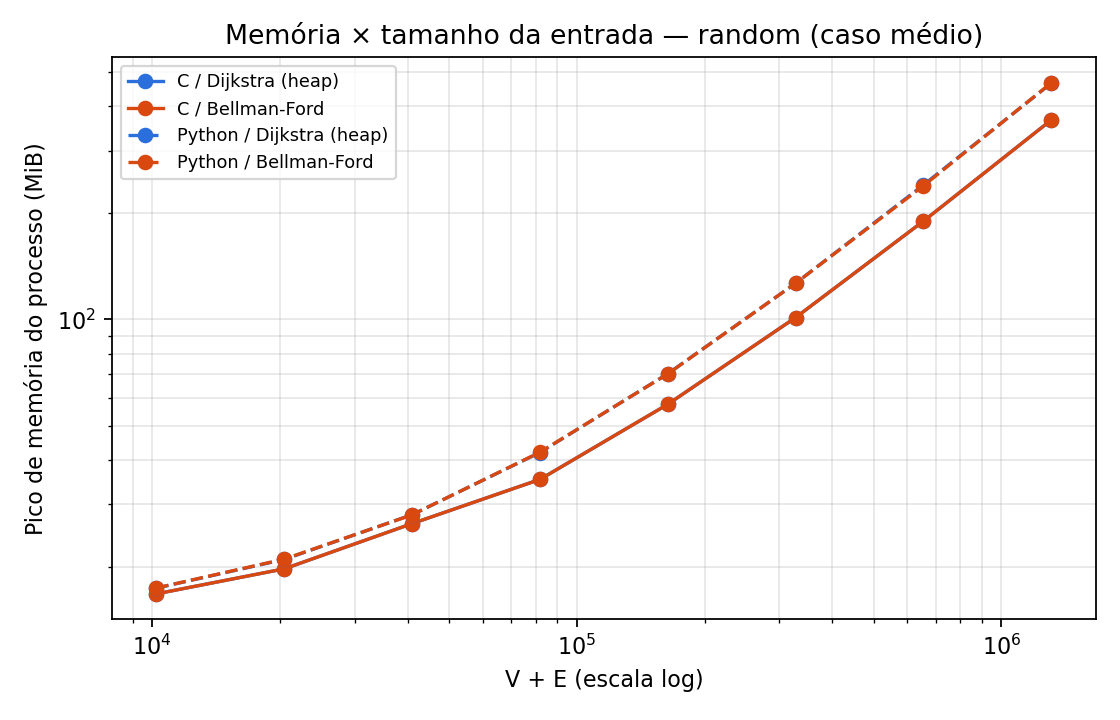
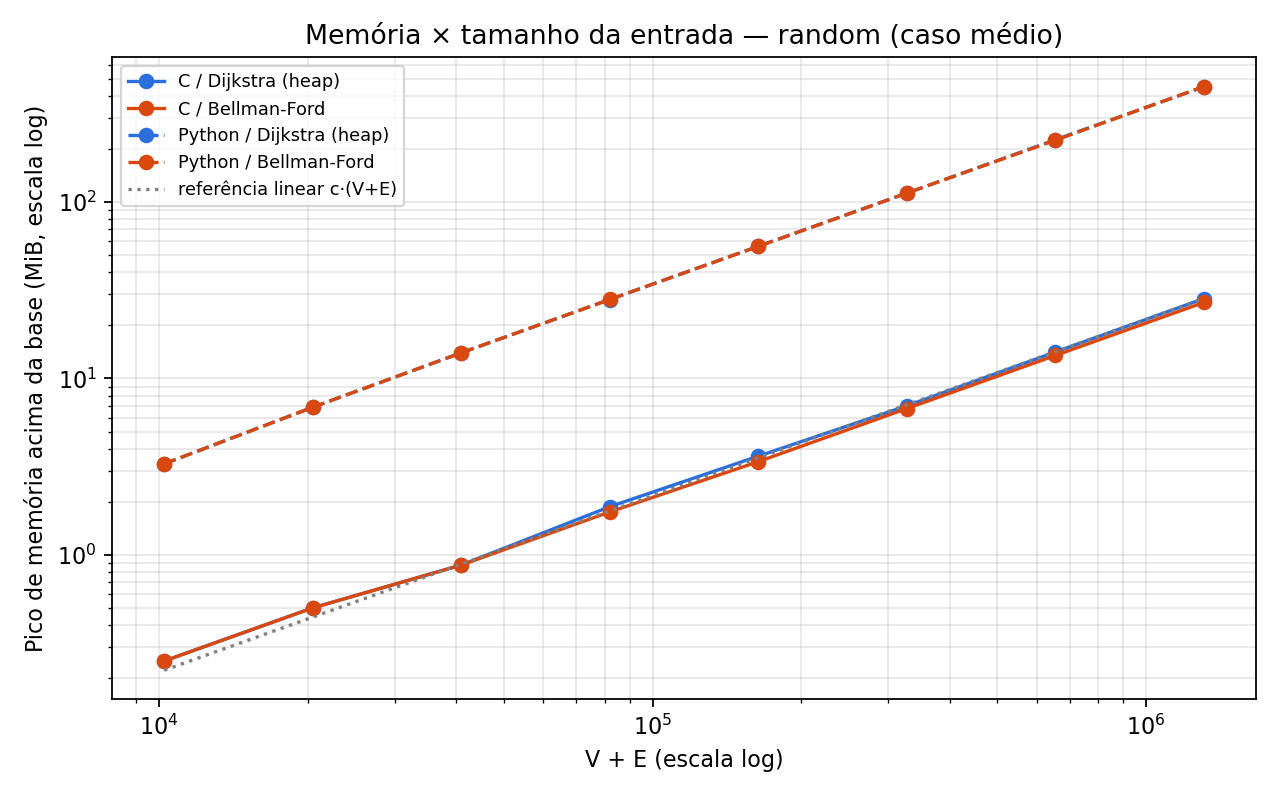
Memória medida com processos limpos (peakrss), resultados e README atualizado

diff --git a/scripts/benchmark.py b/scripts/benchmark.py
@@ -1,15 +1,13 @@
 """Run the four programs on identical inputs; store raw and summary CSV files.
 
-Mede, para cada execução:
-  * elapsed_ns  -- tempo só da função do algoritmo (medido dentro do programa);
-  * maxrss_kib  -- pico de memória residente do processo inteiro (bônus de memória).
+Mede, para cada execução, elapsed_ns: o tempo só da função do algoritmo (medido dentro do programa).
+A memória é medida à parte, por scripts/memory.py.
 """
 
 import argparse
 import csv
 import json
 import math
-import os
 import statistics
 import subprocess
 import sys
@@ -50,23 +48,15 @@ def case_factor(algorithm: str, case: str, vertices: int, edges: int) -> float:
     return edges
 
 
-def run_with_memory(language: str, algorithm: str, graph: Path) -> tuple[dict, int]:
-    """Executa o programa e devolve (saída JSON, pico de memória em KiB)."""
+def run(language: str, algorithm: str, graph: Path) -> dict:
     command = ([sys.executable, "-m", "python.sp"] if language == "python" else [str(ROOT / "build/shortest_path")])
-    with tempfile.TemporaryFile(mode="w+") as out, tempfile.TemporaryFile(mode="w+") as err:
-        process = subprocess.Popen(command + [algorithm, str(graph)], cwd=ROOT, text=True, stdout=out, stderr=err)
-        _, status, usage = os.wait4(process.pid, 0)
-        process.returncode = os.waitstatus_to_exitcode(status)
-        out.seek(0)
-        err.seek(0)
-        if process.returncode != 0:
-            raise RuntimeError(f"{language}/{algorithm} falhou: {err.read().strip()}")
-        data = json.loads(out.read())
+    result = subprocess.run(command + [algorithm, str(graph)], cwd=ROOT, text=True, capture_output=True)
+    if result.returncode != 0:
+        raise RuntimeError(f"{language}/{algorithm} falhou: {result.stderr.strip()}")
+    data = json.loads(result.stdout)
     if data["algorithm"] != algorithm or not isinstance(data["elapsed_ns"], int):
         raise ValueError("saída inválida")
-    # ru_maxrss: KiB no Linux, bytes no macOS.
-    maxrss_kib = usage.ru_maxrss // 1024 if sys.platform == "darwin" else usage.ru_maxrss
-    return data, maxrss_kib
+    return data
 
 
 def main() -> None:
@@ -95,7 +85,7 @@ def main() -> None:
                 # Rotaciona a ordem dos programas para reduzir efeitos sistemáticos de carga de fundo.
                 programs = PROGRAMS[(repetition - 1) % 4:] + PROGRAMS[:(repetition - 1) % 4]
                 for language, algorithm in programs:
-                    data, maxrss_kib = run_with_memory(language, algorithm, graph_path)
+                    data = run(language, algorithm, graph_path)
                     if len(data["distances"]) != vertices:
                         raise ValueError("comprimento de resposta inválido")
                     if expected is None:
@@ -104,8 +94,7 @@ def main() -> None:
                         raise ValueError(f"divergência em V={vertices}, repetição={repetition}, {language}/{algorithm}")
                     rows.append({"seed": args.seed, "case": args.case, "vertices": vertices,
                                  "edges": len(edges), "language": language, "algorithm": algorithm,
-                                 "repetition": repetition, "elapsed_ns": data["elapsed_ns"],
-                                 "maxrss_kib": maxrss_kib})
+                                 "repetition": repetition, "elapsed_ns": data["elapsed_ns"]})
             print(f"[{args.case}] V={vertices}, E={len(edges)}: {args.repeats} repetições verificadas", file=sys.stderr)
     args.output.parent.mkdir(parents=True, exist_ok=True)
     with args.output.open("w", newline="", encoding="utf-8") as output:
@@ -114,8 +103,7 @@ def main() -> None:
         writer.writerows(rows)
     summary_path = args.output.with_name(args.output.stem + "_summary.csv")
     fields = ["seed", "case", "vertices", "edges", "language", "algorithm", "repeats",
-              "mean_ns", "stdev_ns", "bound_factor", "mean_over_bound", "case_factor", "mean_over_case",
-              "mean_maxrss_kib"]
+              "mean_ns", "stdev_ns", "bound_factor", "mean_over_bound", "case_factor", "mean_over_case"]
     with summary_path.open("w", newline="", encoding="utf-8") as output:
         writer = csv.DictWriter(output, fields)
         writer.writeheader()
@@ -132,8 +120,7 @@ def main() -> None:
                                  "repeats": len(samples), "mean_ns": mean,
                                  "stdev_ns": statistics.stdev(samples),
                                  "bound_factor": bound, "mean_over_bound": mean / bound,
-                                 "case_factor": expected, "mean_over_case": mean / expected,
-                                 "mean_maxrss_kib": statistics.mean(r["maxrss_kib"] for r in group)})
+                                 "case_factor": expected, "mean_over_case": mean / expected})
     print(args.output)
     print(summary_path)
 

diff --git a/scripts/plot.py b/scripts/plot.py
@@ -6,7 +6,7 @@ Para cada caso (random, chain, chain-forward, dense):
   <caso>_python_vs_c.png  quantas vezes o Python é mais lento que o C, por algoritmo
 Além disso:
   casos_<algoritmo>.png   o mesmo algoritmo nos vários casos (melhor, médio, pior)
-  memoria.png             pico de memória x V+E (bônus)
+  memoria.png             pico de memória x V+E (bônus), a partir de results/memory.csv
   tabelas.md              tabelas em Markdown para colar no relatório
 """
 
@@ -40,7 +40,7 @@ def load(directory: Path) -> dict[str, list[dict]]:
                 for key in ("vertices", "edges", "repeats"):
                     row[key] = int(row[key])
                 for key in ("mean_ns", "stdev_ns", "bound_factor", "mean_over_bound", "case_factor",
-                            "mean_over_case", "mean_maxrss_kib"):
+                            "mean_over_case"):
                     if key in row and row[key] != "":
                         row[key] = float(row[key])
                 by_case[row["case"]].append(row)
@@ -152,29 +152,41 @@ def plot_cases(plt, by_case: dict[str, list[dict]], output: Path) -> list[Path]:
     return files
 
 
-def plot_memory(plt, by_case: dict[str, list[dict]], output: Path) -> list[Path]:
-    rows = by_case.get("random") or next(iter(by_case.values()))
-    if "mean_maxrss_kib" not in rows[0]:
+def plot_memory(plt, directory: Path, output: Path) -> list[Path]:
+    """Pico de memória (menos a base do interpretador/programa vazio) x V+E, de results/memory.csv."""
+    path = directory / "memory.csv"
+    if not path.is_file():
         return []
-    fig, ax = plt.subplots(figsize=(7, 4.5))
+    with path.open(newline="", encoding="utf-8") as source:
+        rows = list(csv.DictReader(source))
+    for r in rows:
+        for key in ("vertices", "edges", "net_kib"):
+            r[key] = int(float(r[key]))
+    fig, ax = plt.subplots(figsize=(8, 5))
     for language, style in zip(LANGUAGES, ("-", "--")):
         for algorithm in ALGORITHMS:
-            data = series(rows, language, algorithm)
-            ax.plot([r["vertices"] + r["edges"] for r in data], [r["mean_maxrss_kib"] / 1024 for r in data],
+            data = sorted((r for r in rows if r["language"] == language and r["algorithm"] == algorithm),
+                          key=lambda r: r["vertices"])
+            ax.plot([r["vertices"] + r["edges"] for r in data], [max(r["net_kib"], 1) / 1024 for r in data],
                     marker="o", linestyle=style, color=COLORS[algorithm],
                     label=f"{NAMES[language]} / {NAMES[algorithm]}")
+    ref = sorted({r["vertices"] + r["edges"] for r in rows})
+    c_rows = [r for r in rows if r["language"] == "c" and r["algorithm"] == "dijkstra"]
+    anchor = max(c_rows, key=lambda r: r["vertices"])
+    scale = anchor["net_kib"] / 1024 / (anchor["vertices"] + anchor["edges"])
+    ax.plot(ref, [scale * x for x in ref], color="grey", linestyle=":", label="referência linear c·(V+E)")
     ax.set_xscale("log")
     ax.set_yscale("log")
     ax.set_xlabel("V + E (escala log)")
-    ax.set_ylabel("Pico de memória do processo (MiB)")
+    ax.set_ylabel("Pico de memória acima da base (MiB, escala log)")
     ax.set_title(f"Memória × tamanho da entrada — {CASE_LABELS.get(rows[0]['case'], rows[0]['case'])}")
     ax.grid(True, which="both", alpha=0.3)
     ax.legend(fontsize=8)
     fig.tight_layout()
-    path = output / "memoria.png"
-    fig.savefig(path, dpi=160)
+    out = output / "memoria.png"
+    fig.savefig(out, dpi=160)
     plt.close(fig)
-    return [path]
+    return [out]
 
 
 def ms(value: float) -> str:
@@ -235,7 +247,7 @@ def main() -> None:
     for case in [c for c in CASE_ORDER if c in by_case]:
         files += plot_case(plt, case, by_case[case], output)
     files += plot_cases(plt, by_case, output)
-    files += plot_memory(plt, by_case, output)
+    files += plot_memory(plt, args.results, output)
     table_path = args.results / "tabelas.md"
     table_path.write_text(tables(by_case), encoding="utf-8")
     files.append(table_path)

diff --git a/scripts/memory.py b/scripts/memory.py
@@ -1,0 +1,76 @@
+"""Mede o pico de memória residente (bônus) das quatro implementações, com processos limpos.
+
+Cada programa é iniciado por build/peakrss, um lançador mínimo em C; assim o pico medido não
+herda a memória deste script. Para cada tamanho mede-se o programa com o grafo e, como base,
+com um grafo vazio (1 vértice): a diferença é a memória que cresce com a entrada.
+
+Uso: python3 scripts/memory.py [--case random] [--sizes ...] [--repeats 3]
+Saída: results/memory.csv
+"""
+
+import argparse
+import csv
+import re
+import statistics
+import subprocess
+import sys
+import tempfile
+from pathlib import Path
+
+from generate import CASES, generate, write_graph
+
+ROOT = Path(__file__).resolve().parents[1]
+LAUNCHER = ROOT / "build/peakrss"
+PROGRAMS = [(language, algorithm) for language in ("python", "c") for algorithm in ("dijkstra", "bellman-ford")]
+
+
+def peak_kib(language: str, algorithm: str, graph: Path) -> int:
+    program = [sys.executable, "-m", "python.sp"] if language == "python" else [str(ROOT / "build/shortest_path")]
+    result = subprocess.run([str(LAUNCHER)] + program + [algorithm, str(graph)], cwd=ROOT,
+                            capture_output=True, text=True)
+    match = re.search(r"peak_rss_kib=(\d+)", result.stderr)
+    if result.returncode != 0 or not match:
+        raise RuntimeError(f"{language}/{algorithm} falhou: {result.stderr.strip()}")
+    return int(match.group(1))
+
+
+def main() -> None:
+    parser = argparse.ArgumentParser(description=__doc__, formatter_class=argparse.RawDescriptionHelpFormatter)
+    parser.add_argument("--case", choices=CASES, default="random")
+    parser.add_argument("--sizes", nargs="+", type=int,
+                        default=[2048, 4096, 8192, 16384, 32768, 65536, 131072, 262144])
+    parser.add_argument("--repeats", type=int, default=3)
+    parser.add_argument("--seed", type=int, default=2026)
+    parser.add_argument("--edges-per-vertex", type=int, default=4)
+    parser.add_argument("--output", type=Path, default=ROOT / "results/memory.csv")
+    args = parser.parse_args()
+    if not LAUNCHER.is_file() or not (ROOT / "build/shortest_path").is_file():
+        parser.error("compile primeiro com make")
+    rows = []
+    with tempfile.TemporaryDirectory() as temporary:
+        empty = Path(temporary) / "vazio.txt"
+        empty.write_text("1 0 0\n", encoding="utf-8")
+        baseline = {(lang, alg): statistics.median(peak_kib(lang, alg, empty) for _ in range(args.repeats))
+                    for lang, alg in PROGRAMS}
+        for vertices in args.sizes:
+            edges = generate(vertices, args.edges_per_vertex, args.seed, args.case)
+            graph = Path(temporary) / f"v{vertices}.txt"
+            write_graph(graph, vertices, edges)
+            for language, algorithm in PROGRAMS:
+                peak = statistics.median(peak_kib(language, algorithm, graph) for _ in range(args.repeats))
+                base = baseline[(language, algorithm)]
+                rows.append({"case": args.case, "vertices": vertices, "edges": len(edges),
+                             "language": language, "algorithm": algorithm,
+                             "peak_rss_kib": peak, "baseline_kib": base, "net_kib": peak - base,
+                             "net_bytes_per_v_plus_e": round((peak - base) * 1024 / (vertices + len(edges)), 1)})
+            print(f"[memória/{args.case}] V={vertices}, E={len(edges)}", file=sys.stderr)
+    args.output.parent.mkdir(parents=True, exist_ok=True)
+    with args.output.open("w", newline="", encoding="utf-8") as output:
+        writer = csv.DictWriter(output, list(rows[0]))
+        writer.writeheader()
+        writer.writerows(rows)
+    print(args.output)
+
+
+if __name__ == "__main__":
+    main()

diff --git a/c/peakrss.c b/c/peakrss.c
@@ -1,0 +1,29 @@
+/* Lança um programa a partir de um processo pequeno e informa o pico de memória residente dele.
+ * Uso: peakrss programa [argumentos...]
+ * A saída do programa passa direto; no fim, escreve "peak_rss_kib=N" na saída de erro.
+ * Por que existe: um filho criado direto pelo benchmark em Python herda, no ru_maxrss, a memória
+ * do processo pai. Criado a partir deste processo mínimo, o pico medido é só o do programa. */
+#define _POSIX_C_SOURCE 200809L
+#include <stdio.h>
+#include <sys/resource.h>
+#include <sys/types.h>
+#include <sys/wait.h>
+#include <unistd.h>
+
+int main(int argc, char **argv) {
+    if (argc < 2) { fputs("uso: peakrss programa [argumentos...]\n", stderr); return 2; }
+    pid_t pid = fork();
+    if (pid < 0) { perror("fork"); return 2; }
+    if (pid == 0) { execvp(argv[1], argv + 1); perror("execvp"); _exit(127); }
+    int status = 0;
+    if (waitpid(pid, &status, 0) < 0) { perror("waitpid"); return 2; }
+    struct rusage usage;
+    getrusage(RUSAGE_CHILDREN, &usage);
+#ifdef __APPLE__
+    long kib = (long)(usage.ru_maxrss / 1024); /* macOS informa em bytes */
+#else
+    long kib = (long)usage.ru_maxrss;          /* Linux informa em KiB */
+#endif
+    fprintf(stderr, "peak_rss_kib=%ld\n", kib);
+    return WIFEXITED(status) ? WEXITSTATUS(status) : 2;
+}

diff --git a/README.md b/README.md
@@ -9,11 +9,14 @@ Base reproduzível para comparar Dijkstra com heap e Bellman–Ford em Python 3 
 | `python/sp/` | Leitor, estruturas e algoritmos em Python |
 | `c/` | Leitor, estruturas e algoritmos em C11 |
 | `scripts/generate.py` | Grafos determinísticos |
-| `scripts/benchmark.py` e `scripts/plot.py` | Medições (tempo e memória), resumo CSV, gráficos e tabelas |
+| `scripts/benchmark.py` | Medição de tempo das 4 versões sobre as mesmas entradas |
+| `scripts/memory.py` e `c/peakrss.c` | Medição de pico de memória (bônus) com processos limpos |
+| `scripts/plot.py` | Gráficos e tabelas a partir dos resultados |
 | `scripts/environment.py` | Registro do ambiente de execução |
 | `scripts/run_all.sh` | Campanha completa em um comando |
 | `docs/progresso.md` | Análise de casos e anotações para o relatório |
 | `tests/` e `data/fixtures/` | Corretude e entradas conhecidas |
+| `results/` | Resultados da campanha final (dados brutos, resumos, gráficos, ambiente) |
 
 Entrada em texto: primeira linha `V E origem`; depois, exatamente `E` linhas `u v peso`. Vértices são inteiros de `0` a `V-1`, arestas são **dirigidas**, pesos são inteiros de `-1000000` a `1000000`, e a origem deve existir. Arestas paralelas são aceitas. **A comparação das quatro implementações usa somente pesos não negativos**, pois Dijkstra rejeita qualquer peso negativo. Bellman–Ford aceita pesos negativos e rejeita ciclos negativos alcançáveis pela origem; esses casos são testados separadamente. Ciclos negativos inalcançáveis não afetam o resultado da origem. Vértices inalcançáveis têm distância `null` no JSON. O resultado é a lista de distâncias a partir da origem; predecessores e reconstrução de caminhos não fazem parte do contrato inicial.
 
@@ -37,7 +40,7 @@ python3 -m python.sp bellman-ford /tmp/grafo.txt
 ./build/shortest_path bellman-ford /tmp/grafo.txt
 ```
 
-`make clean` remove o executável. Os testes comparam as quatro respostas com resultados conhecidos (inalcançáveis, arestas paralelas, pesos zero), testam pesos e ciclos negativos no Bellman–Ford e, em `test_cross_check.py`, comparam as quatro implementações com Floyd–Warshall em grafos gerados de todos os casos.
+`make clean` remove os executáveis (`build/`). Os testes comparam as quatro respostas com resultados conhecidos (inalcançáveis, arestas paralelas, pesos zero), testam pesos e ciclos negativos no Bellman–Ford e, em `test_cross_check.py`, comparam as quatro implementações com Floyd–Warshall em grafos gerados de todos os casos.
 
 ## Reproduzir a campanha completa
 
@@ -54,7 +57,7 @@ Depois, com o computador sem outras cargas:
 sh scripts/run_all.sh
 ```
 
-O script compila, roda os testes, grava o ambiente em `results/environment.json` (CPU, RAM, SO, versões, flags e commit), mede os quatro casos com 15 repetições e semente 2026, e gera `results/plots/*.png` e `results/tabelas.md`. Leva de 10 a 20 minutos. `REPEATS=30 sh scripts/run_all.sh` muda o número de repetições.
+O script compila, roda os testes, grava o ambiente em `results/environment.json` (CPU, RAM, SO, versões, flags e commit), mede o tempo dos quatro casos com 15 repetições e semente 2026, mede a memória (`results/memory.csv`) e gera `results/plots/*.png` e `results/tabelas.md`. Leva de 10 a 20 minutos. `REPEATS=30 sh scripts/run_all.sh` muda o número de repetições.
 
 | Caso | Grafo | Tamanhos (V) | Papel na análise |
 |---|---|---|---|
@@ -63,7 +66,7 @@ O script compila, roda os testes, grava o ambiente em `results/environment.json`
 | `chain` | fila em ordem reversa | 256 … 16384 | pior caso do Bellman–Ford (V−1 passes, Θ(V·E)); Dijkstra Θ(V+E) |
 | `dense` | grafo completo, E = V(V−1) | 32 … 1024 | caso mais pesado do Dijkstra com heap |
 
-Cada execução é verificada (as quatro respostas precisam ser iguais). `results/<caso>.csv` guarda cada tempo e `results/<caso>_summary.csv` guarda média, desvio padrão amostral, pico de memória e duas razões:
+Cada execução é verificada (as quatro respostas precisam ser iguais). `results/<caso>.csv` guarda cada tempo e `results/<caso>_summary.csv` guarda média, desvio padrão amostral e duas razões:
 
 - `mean_over_bound`: tempo ÷ limite do enunciado, `(V+E)·log₂V` para Dijkstra e `V·E` para Bellman–Ford;
 - `mean_over_case`: tempo ÷ custo esperado **do caso** (tabela abaixo). Deve tender a uma constante quando a análise está certa.
@@ -75,8 +78,16 @@ Cada execução é verificada (as quatro respostas precisam ser iguais). `result
 
 Gráficos gerados por caso: `<caso>_tempo.png` (medido × curva teórica, Dijkstra × Bellman–Ford, um painel por linguagem), `<caso>_razao.png` (T/f) e `<caso>_python_vs_c.png`. Também: `casos_<algoritmo>.png` (melhor/médio/pior) e `memoria.png` (pico de memória × V+E, bônus). A análise dos casos está em `docs/progresso.md`.
 
-`elapsed_ns` mede apenas a função do algoritmo, depois da leitura e antes da serialização. Não há JIT (CPython e C compilado), então não há aquecimento. O pico de memória (`ru_maxrss`) é do processo inteiro e inclui o grafo, que ocupa O(V+E).
+> `plot.py` lê **todos** os `*_summary.csv` da pasta indicada. Guarde medições de teste fora de `results/` para não misturá-las com a campanha final.
+
+`elapsed_ns` mede apenas a função do algoritmo, depois da leitura e antes da serialização. Não há JIT (CPython e C compilado), então não há aquecimento.
+
+**Memória (bônus):** `scripts/memory.py` grava `results/memory.csv` com o pico de memória residente de cada programa, medido por `build/peakrss` (lançador mínimo em C, `c/peakrss.c`). O lançador existe porque um filho criado direto pelo benchmark em Python herda, no `ru_maxrss`, a memória do processo pai. A coluna `net_kib` desconta a base (o mesmo programa com um grafo vazio). Os arquivos `*_summary.csv` da campanha de 23/11 ainda trazem uma coluna `mean_maxrss_kib` medida do jeito antigo: ela está **contaminada** por esse efeito e não deve ser usada.
 
 A implementação Python do heap usa entradas repetidas com descarte das obsoletas, com limite `O(E log E)`; como `E ≤ V²`, isso é `O(E log V)`, a mesma classe da versão C com decrease-key `O((V+E) log V)`.
 
 O problema vizinho indicado no PDF é o **caminho simples mais longo (NP-difícil)**. A discussão é teórica, sem implementação.
+
+## Resultados da campanha final
+
+Medidos em 23/11/2026 num Intel Core i5-1334U (7,6 GiB de RAM), Ubuntu 24.04 no WSL2, Python 3.12.3 e gcc 13.3 com `-O2`, no commit `9147fe0`. Os dados estão em `results/`, com resumo em `results/tabelas.md` e gráficos em `results/plots/`. A análise completa está no relatório da equipe.
